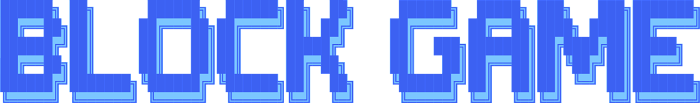
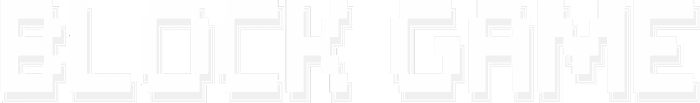
Allow for a colored image based on color from ColorMapper

diff --git a/src/blockgame/gui/Image.java b/src/blockgame/gui/Image.java
@@ -1,6 +1,8 @@
 package blockgame.gui;
 
+import java.awt.Color;
 import java.awt.Graphics;
+import java.awt.image.BufferedImage;
 import java.io.IOException;
 
 import javax.imageio.ImageIO;
@@ -8,22 +10,38 @@ import javax.imageio.ImageIO;
 import com.fasterxml.jackson.annotation.JsonCreator;
 import com.fasterxml.jackson.annotation.JsonProperty;
 
+import blockgame.input.ColorMapper;
+import blockgame.input.ValueChangeListener;
+import blockgame.physics.Rectangle.Colors;
+
 /**
  * {@code Drawable} which draws an image from a resource.
+ * <p>
+ * This has two modes: one where it draws the image as normal, and one where it
+ * applies a coloring to the image. In the second mode, the supplied image
+ * resource should be grayscale. Whiter sections will become more colored and
+ * darker sections will stay darker.
  * 
  * @author Frank Kormann
  */
-public class Image implements Drawable {
+public class Image implements Drawable, ValueChangeListener {
+
+	private static ColorMapper colorMapper;
 
 	private int x, y;
-	private java.awt.Image image;
+	private BufferedImage baseImage;
+	private BufferedImage image;
+	private Colors color;
 
 	@JsonCreator
 	public Image(@JsonProperty("x") int x, @JsonProperty("y") int y,
 			@JsonProperty("source") String source) {
 		this.x = x;
 		this.y = y;
+		color = null;
+		colorMapper.addListener(this);
 		try {
+			baseImage = ImageIO.read(Image.class.getResourceAsStream(source));
 			image = ImageIO.read(Image.class.getResourceAsStream(source));
 		}
 		catch (IOException e) {
@@ -33,9 +51,56 @@ public class Image implements Drawable {
 		}
 	}
 
+	public static void setColorMapper(ColorMapper colorMapper) {
+		Image.colorMapper = colorMapper;
+	}
+
 	@Override
 	public void draw(Graphics g) {
 		g.drawImage(image, x, y, null);
 	}
+
+	public void setColor(Colors color) {
+		this.color = color;
+		colorImage();
+	}
+
+	/**
+	 * Applies the coloring to {@code image}, taking grayscale RGB data from
+	 * {@code baseImage}.
+	 */
+	private void colorImage() {
+		if (color == null) {
+			return;
+		}
+		Color referenceColor = colorMapper.getColor(color);
+		if (referenceColor == null) {
+			return;
+		}
+		int refR = referenceColor.getRed();
+		int refG = referenceColor.getGreen();
+		int refB = referenceColor.getBlue();
+
+		for (int x1 = 0; x1 < image.getWidth(); x1++) {
+			for (int y1 = 0; y1 < image.getHeight(); y1++) {
+				int rgb = baseImage.getRGB(x1, y1);
+				int α = (rgb >> 24) & 0xff;
+				int r = ((rgb >> 16) & 0xff) * refR / 0xff;
+				int g = ((rgb >> 8) & 0xff) * refG / 0xff;
+				int b = (rgb & 0xff) * refB / 0xff;
+				image.setRGB(x1, y1, (α << 24) + (r << 16) + (g << 8) + b);
+			}
+		}
+	}
+
+	@Override
+	public void valueChanged(Enum<?> key, Object newValue) {
+		if (key == color) {
+			colorImage();
+		}
+	}
+
+	@Override
+	public void valueRemoved(Enum<?> key) {}
 
 }

diff --git a/src/blockgame/GameController.java b/src/blockgame/GameController.java
@@ -111,6 +111,7 @@ public class GameController extends WindowAdapter
 
 		Rectangle.setColorMapper(colorMapper);
 		Rectangle.setParameterMapper(paramMapper);
+		Image.setColorMapper(colorMapper);
 
 		gameInputHandler = new GameInputHandler(inputMapper, paramMapper);
 		// physicsSimulator is instantiated when the first level is loaded
